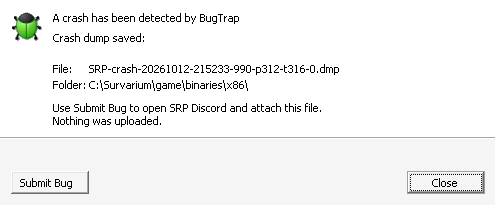
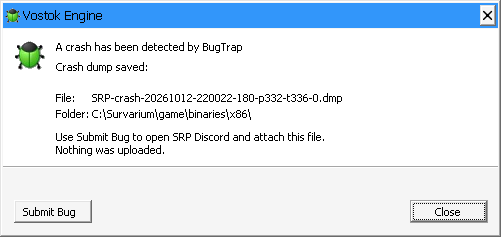
Correct crash dialog title, font rendering and button alignment

Changed region(s): [[0.0, 0.0, 1.0, 1.0]]

diff --git a/client/bugtrap/src/ui.rs b/client/bugtrap/src/ui.rs
@@ -55,6 +55,7 @@ struct Template {
 }
 struct DialogData {
     message: *const u16,
+    font: HFONT,
     icon: HICON,
     small_icon: HICON,
     folder: *const u16,
@@ -100,6 +101,24 @@ unsafe extern "system" fn dialog(window: HWND, msg: u32, wp: usize, lp: isize) -
     match msg {
         WM_INITDIALOG => {
             let data = &mut *(lp as *mut DialogData);
+            // Use the same compact TrueType face for every control. Explicit
+            // smoothing avoids Wine's jagged small-font rendering.
+            let base = SendMessageW(window, WM_GETFONT, 0, 0) as HFONT;
+            let mut font: LOGFONTW = core::mem::zeroed();
+            if GetObjectW(
+                base,
+                core::mem::size_of::<LOGFONTW>() as i32,
+                (&mut font as *mut LOGFONTW).cast(),
+            ) != 0
+            {
+                font.lfQuality = ANTIALIASED_QUALITY;
+                data.font = CreateFontIndirectW(&font);
+                if !data.font.is_null() {
+                    for id in [1030, 1031, 1034, 1035, 1036, 1037, 1038, 1013, IDCANCEL] {
+                        SendDlgItemMessageW(window, id, WM_SETFONT, data.font as usize, 1);
+                    }
+                }
+            }
             SetDlgItemTextW(window, 1031, data.message);
             if data.have_dump {
                 SetDlgItemTextW(window, 1034, data.filename);
@@ -215,11 +234,11 @@ pub unsafe fn show(path: &Wide<32768>, saved: bool, partial: bool, error: u32) {
     t.word(126);
     t.word(0);
     t.word(0);
-    t.text("SRP crash report");
+    t.text("Vostok Engine");
     // Match IDD_SIMPLE_DLG in the original BugTrap.rc. The white panel is
     // taller to fit our persistent dump location and local-reporting text.
     t.word(8);
-    t.text("MS Shell Dlg");
+    t.text("Tahoma");
     t.control(
         WS_CHILD | WS_VISIBLE | SS_LEFT,
         [0, 0, 330, 85],
@@ -291,14 +310,14 @@ pub unsafe fn show(path: &Wide<32768>, saved: bool, partial: bool, error: u32) {
         "",
     );
     t.control(
-        WS_CHILD | WS_VISIBLE | WS_TABSTOP | BS_DEFPUSHBUTTON as u32,
+        WS_CHILD | WS_VISIBLE | WS_TABSTOP | (BS_DEFPUSHBUTTON | BS_CENTER | BS_VCENTER) as u32,
         [271, 105, 52, 14],
         IDCANCEL as u16,
         0x80,
         "Close",
     );
     t.control(
-        WS_CHILD | WS_VISIBLE | WS_TABSTOP | BS_PUSHBUTTON as u32,
+        WS_CHILD | WS_VISIBLE | WS_TABSTOP | (BS_PUSHBUTTON | BS_CENTER | BS_VCENTER) as u32,
         [7, 105, 52, 14],
         1013,
         0x80,
@@ -306,6 +325,7 @@ pub unsafe fn show(path: &Wide<32768>, saved: bool, partial: bool, error: u32) {
     );
     let mut data = DialogData {
         message: message.ptr(),
+        font: null_mut(),
         icon: null_mut(),
         small_icon: null_mut(),
         folder: folder.ptr(),
@@ -319,6 +339,9 @@ pub unsafe fn show(path: &Wide<32768>, saved: bool, partial: bool, error: u32) {
         Some(dialog),
         (&mut data as *mut DialogData) as isize,
     );
+    if !data.font.is_null() {
+        DeleteObject(data.font);
+    }
     for icon in [data.icon, data.small_icon] {
         if !icon.is_null() {
             DestroyIcon(icon);
@@ -333,7 +356,7 @@ pub unsafe fn show(path: &Wide<32768>, saved: bool, partial: bool, error: u32) {
         MessageBoxW(
             null_mut(),
             message.ptr(),
-            windows_sys::w!("SRP crash report"),
+            windows_sys::w!("Vostok Engine"),
             MB_OK | MB_ICONERROR | MB_TASKMODAL,
         );
     }

diff --git a/client/bugtrap/README.md b/client/bugtrap/README.md
@@ -12,11 +12,12 @@ never overwritten. If the EXE folder is unwritable, it tries the Windows tempora
 folder; the dialog shows the filename and folder in separate labeled fields,
 or a failure message. Long folders use middle ellipsis. It uses static text
 without selection or scrollbars. The layout follows the original C++
-`IDD_SIMPLE_DLG`: an 8-point MS Shell Dlg font, white message panel, thin divider,
+`IDD_SIMPLE_DLG`: an explicit 8-point Tahoma font with smoothing, white message panel, thin divider,
 and gray footer with Submit Bug and Close buttons. The panel is taller to fit
 the dump details; the original Mail and More controls are omitted. The original
 green beetle icon (`vostok/sources/BugTrap/res/Bug.ico`) is embedded in the DLL
-and used in both the message panel and window title.
+and used in both the message panel and the “Vostok Engine” window title.
+Both button labels are centered horizontally and vertically.
 
 Submit Bug opens [SRP Discord](https://discord.gg/Pxa4prXfwu) in the default
 browser, only when clicked. The dialog stays open so the player can attach the
